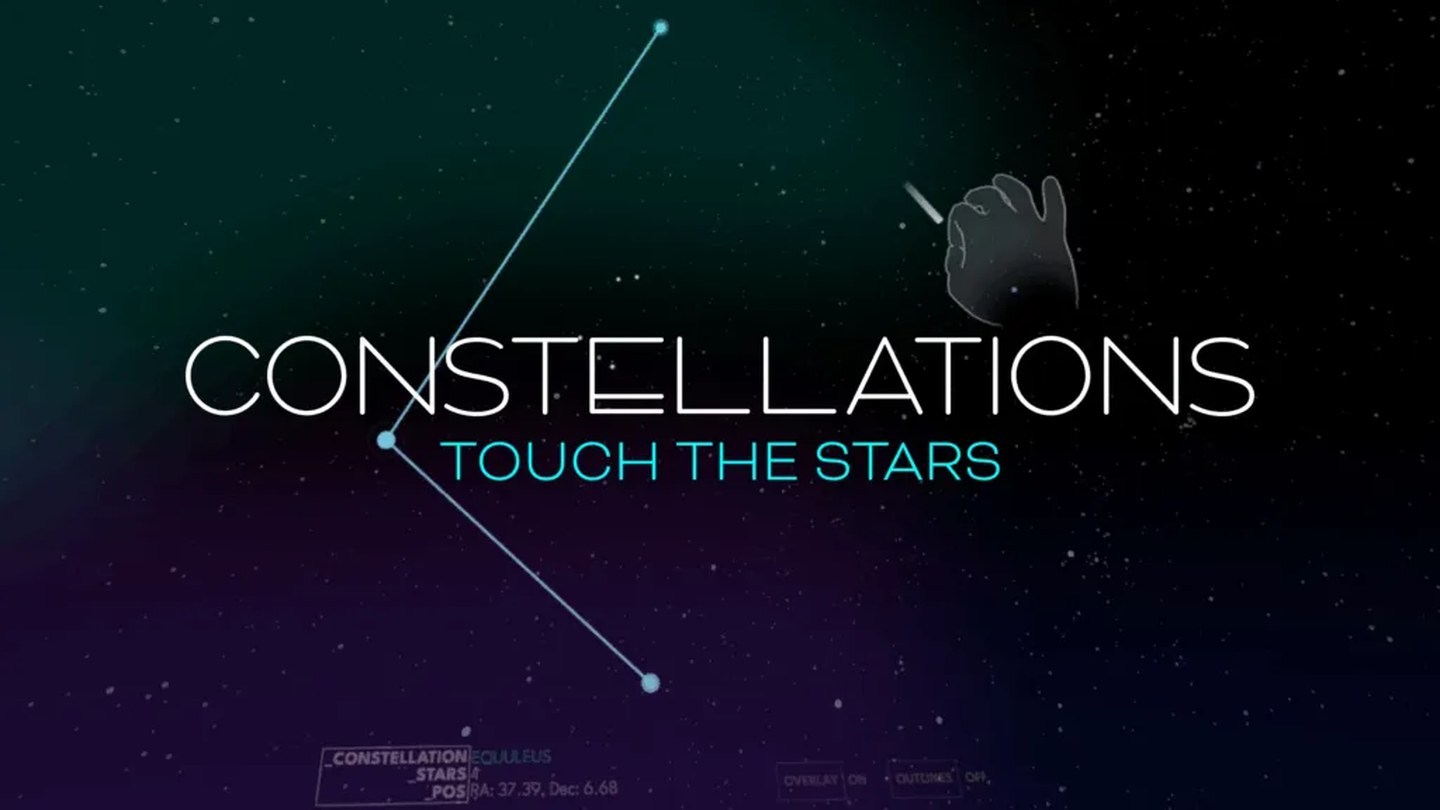
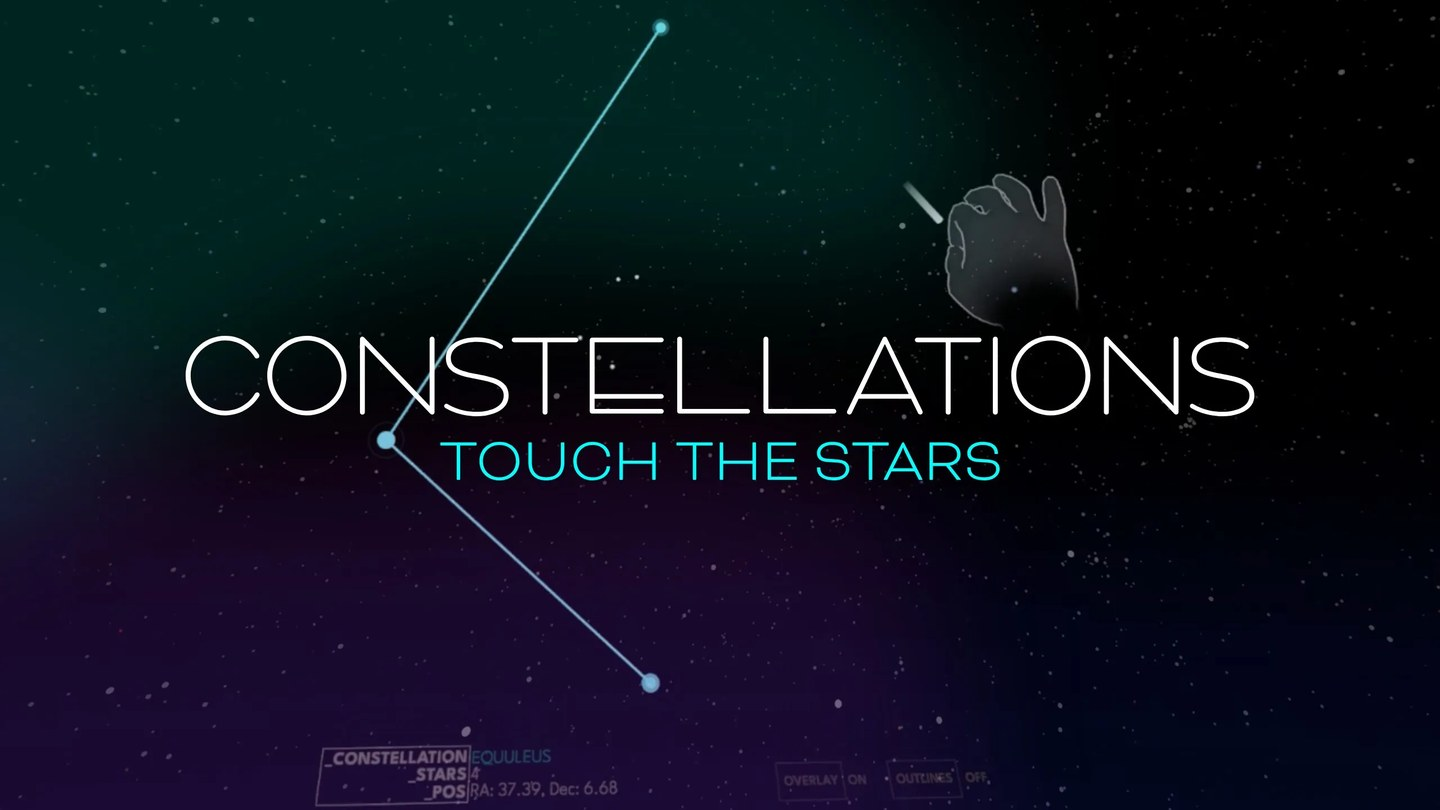
feat(vip): separate Connectome and Constellations VIP cards, scrape official Meta key art (v0.1.53)

diff --git a/2026/index.html b/2026/index.html
@@ -164,18 +164,18 @@
 
       <div class="diamond-divider"><span class="diamond-pill">✦</span></div>
 
-      <article class="project-entry" id="2026-vip-parietal-lab">
-        <img class="project-image" src="../assets/images/2026/connectome_2026.jpg" alt="CONNECTOME &amp; CONSTELLATIONS" loading="lazy">
+      <article class="project-entry" id="2026-vip-connectome">
+        <img class="project-image" src="../assets/images/2026/connectome_2026.jpg" alt="CONNECTOME" loading="lazy">
         <div style="display:flex; align-items:center; gap:8px; margin-bottom:8px;">
           <span class="tag" style="background:rgba(255, 222, 89, 0.15); border:1px solid var(--neon-yellow); color:var(--neon-yellow); font-size:0.75rem; font-weight:bold;">🎟 INVITED VIP SPOTLIGHT</span>
         </div>
-        <h3 class="project-title">CONNECTOME &amp; CONSTELLATIONS</h3>
+        <h3 class="project-title">CONNECTOME</h3>
         <div class="project-byline">By Grant Hinkson • Parietal Lab</div>
-        <p class="project-logline">Minimalist spatial meditation, generative neural structures, and celestial star tracing set to original ambient acoustic soundscapes.</p>
-        <p class="project-synopsis">Parietal Lab crafts contemplative spatial works at the intersection of neuroscience, astronomy, and ambient art. "CONNECTOME" guides participants through meditative spatial dot-connections, while "CONSTELLATIONS" enables interactive tracing across 88 celestial IAU star systems.</p>
+        <p class="project-logline">A meditative spatial puzzle experience and contemplative neural journey set to original ambient acoustic soundscapes.</p>
+        <p class="project-synopsis">Lose yourself in CONNECTOME, a space of discovery and exploration. Simple gestures bring objects to life and grow a contemplative world around you in this room-scale, interactive art and puzzle experience. Allow yourself to slow down and find flow in a place of wonder and scale only possible in VR.</p>
         <ul class="project-bullets">
-          <li><strong>Genre:</strong> Spatial Meditation &amp; Generative Art</li>
-          <li><strong>Format:</strong> Spatial Computing (Meta Quest / Vision Pro)</li>
+          <li><strong>Genre:</strong> Spatial Meditation &amp; Interactive Art Puzzle</li>
+          <li><strong>Format:</strong> Spatial Computing (Meta Quest / Apple Vision Pro)</li>
           <li><strong>Origin:</strong> Seattle, USA</li>
           <li><strong>Status:</strong> VIP Invitation Dispatched</li>
           <li><strong>Conference Lineage:</strong> SLICE 2026 Showcase Invitation</li>
@@ -184,6 +184,37 @@
           <a href="https://www.meta.com/experiences/connectome/25707920632186813/?utm_source=kremfest_xr&utm_medium=festival_showcase&utm_campaign=kremfest_2026_vip" target="_blank">Meta Quest Store ↗</a>
           <span class="link-dot">•</span>
           <a href="https://www.connectomegame.com/?utm_source=kremfest_xr&utm_medium=festival_showcase&utm_campaign=kremfest_2026_vip" target="_blank">ConnectomeGame.com ↗</a>
+          <span class="link-dot">•</span>
+          <a href="https://parietallab.com/?utm_source=kremfest_xr&utm_medium=festival_showcase&utm_campaign=kremfest_2026_vip" target="_blank">ParietalLab.com ↗</a>
+          <span class="link-dot">•</span>
+          <a href="https://granthinkson.com/?utm_source=kremfest_xr&utm_medium=festival_showcase&utm_campaign=kremfest_2026_vip" target="_blank">Grant Hinkson Portfolio ↗</a>
+          <span class="link-dot">•</span>
+          <a href="https://www.linkedin.com/company/parietal-lab/?utm_source=kremfest_xr&utm_medium=festival_showcase&utm_campaign=kremfest_2026_vip" target="_blank">Parietal Lab LinkedIn ↗</a>
+        </div>
+      </article>
+
+      <div class="diamond-divider"><span class="diamond-pill">✦</span></div>
+
+      <article class="project-entry" id="2026-vip-constellations">
+        <img class="project-image" src="../assets/images/2026/constellations_2026.jpg" alt="CONSTELLATIONS: Touch the Stars" loading="lazy">
+        <div style="display:flex; align-items:center; gap:8px; margin-bottom:8px;">
+          <span class="tag" style="background:rgba(255, 222, 89, 0.15); border:1px solid var(--neon-yellow); color:var(--neon-yellow); font-size:0.75rem; font-weight:bold;">🎟 INVITED VIP SPOTLIGHT</span>
+        </div>
+        <h3 class="project-title">CONSTELLATIONS: Touch the Stars</h3>
+        <div class="project-byline">By Grant Hinkson • Parietal Lab</div>
+        <p class="project-logline">Reach out and touch the night sky in connect-the-dots form, tracing across all 88 celestial IAU constellations.</p>
+        <p class="project-synopsis">In CONSTELLATIONS, the night sky comes to life with intuitive spatial interaction. Scan the heavens with a heads-up display, tap your thumb to open the constellation in view, and use pinch-to-drag hand gestures to connect stellar coordinates. Learn all 88 official astronomical constellations or immerse yourself in a serene, ambient starfield.</p>
+        <ul class="project-bullets">
+          <li><strong>Genre:</strong> Astronomy &amp; Celestial Spatial Meditation</li>
+          <li><strong>Format:</strong> Hand-Tracking VR (Meta Quest)</li>
+          <li><strong>Origin:</strong> Seattle, USA</li>
+          <li><strong>Status:</strong> VIP Invitation Dispatched</li>
+          <li><strong>Conference Lineage:</strong> SLICE 2026 Showcase Invitation</li>
+        </ul>
+        <div class="project-links-row">
+          <a href="https://www.meta.com/experiences/constellations-touch-the-stars/24145606965110616/?utm_source=kremfest_xr&utm_medium=festival_showcase&utm_campaign=kremfest_2026_vip" target="_blank">Meta Quest Store ↗</a>
+          <span class="link-dot">•</span>
+          <a href="https://parietallab.com/constellations/?utm_source=kremfest_xr&utm_medium=festival_showcase&utm_campaign=kremfest_2026_vip" target="_blank">Constellations Overview ↗</a>
           <span class="link-dot">•</span>
           <a href="https://parietallab.com/?utm_source=kremfest_xr&utm_medium=festival_showcase&utm_campaign=kremfest_2026_vip" target="_blank">ParietalLab.com ↗</a>
           <span class="link-dot">•</span>

diff --git a/index.html b/index.html
@@ -165,18 +165,18 @@
 
       <div class="diamond-divider"><span class="diamond-pill">✦</span></div>
 
-      <article class="project-entry" id="2026-vip-parietal-lab">
-        <img class="project-image" src="assets/images/2026/connectome_2026.jpg" alt="CONNECTOME &amp; CONSTELLATIONS" loading="lazy">
+      <article class="project-entry" id="2026-vip-connectome">
+        <img class="project-image" src="assets/images/2026/connectome_2026.jpg" alt="CONNECTOME" loading="lazy">
         <div style="display:flex; align-items:center; gap:8px; margin-bottom:8px;">
           <span class="tag" style="background:rgba(255, 222, 89, 0.15); border:1px solid var(--neon-yellow); color:var(--neon-yellow); font-size:0.75rem; font-weight:bold;">🎟 INVITED VIP SPOTLIGHT</span>
         </div>
-        <h3 class="project-title">CONNECTOME &amp; CONSTELLATIONS</h3>
+        <h3 class="project-title">CONNECTOME</h3>
         <div class="project-byline">By Grant Hinkson • Parietal Lab</div>
-        <p class="project-logline">Minimalist spatial meditation, generative neural structures, and celestial star tracing set to original ambient acoustic soundscapes.</p>
-        <p class="project-synopsis">Parietal Lab crafts contemplative spatial works at the intersection of neuroscience, astronomy, and ambient art. "CONNECTOME" guides participants through meditative spatial dot-connections, while "CONSTELLATIONS" enables interactive tracing across 88 celestial IAU star systems.</p>
+        <p class="project-logline">A meditative spatial puzzle experience and contemplative neural journey set to original ambient acoustic soundscapes.</p>
+        <p class="project-synopsis">Lose yourself in CONNECTOME, a space of discovery and exploration. Simple gestures bring objects to life and grow a contemplative world around you in this room-scale, interactive art and puzzle experience. Allow yourself to slow down and find flow in a place of wonder and scale only possible in VR.</p>
         <ul class="project-bullets">
-          <li><strong>Genre:</strong> Spatial Meditation &amp; Generative Art</li>
-          <li><strong>Format:</strong> Spatial Computing (Meta Quest / Vision Pro)</li>
+          <li><strong>Genre:</strong> Spatial Meditation &amp; Interactive Art Puzzle</li>
+          <li><strong>Format:</strong> Spatial Computing (Meta Quest / Apple Vision Pro)</li>
           <li><strong>Origin:</strong> Seattle, USA</li>
           <li><strong>Status:</strong> VIP Invitation Dispatched</li>
           <li><strong>Conference Lineage:</strong> SLICE 2026 Showcase Invitation</li>
@@ -185,6 +185,37 @@
           <a href="https://www.meta.com/experiences/connectome/25707920632186813/?utm_source=kremfest_xr&utm_medium=festival_showcase&utm_campaign=kremfest_2026_vip" target="_blank">Meta Quest Store ↗</a>
           <span class="link-dot">•</span>
           <a href="https://www.connectomegame.com/?utm_source=kremfest_xr&utm_medium=festival_showcase&utm_campaign=kremfest_2026_vip" target="_blank">ConnectomeGame.com ↗</a>
+          <span class="link-dot">•</span>
+          <a href="https://parietallab.com/?utm_source=kremfest_xr&utm_medium=festival_showcase&utm_campaign=kremfest_2026_vip" target="_blank">ParietalLab.com ↗</a>
+          <span class="link-dot">•</span>
+          <a href="https://granthinkson.com/?utm_source=kremfest_xr&utm_medium=festival_showcase&utm_campaign=kremfest_2026_vip" target="_blank">Grant Hinkson Portfolio ↗</a>
+          <span class="link-dot">•</span>
+          <a href="https://www.linkedin.com/company/parietal-lab/?utm_source=kremfest_xr&utm_medium=festival_showcase&utm_campaign=kremfest_2026_vip" target="_blank">Parietal Lab LinkedIn ↗</a>
+        </div>
+      </article>
+
+      <div class="diamond-divider"><span class="diamond-pill">✦</span></div>
+
+      <article class="project-entry" id="2026-vip-constellations">
+        <img class="project-image" src="assets/images/2026/constellations_2026.jpg" alt="CONSTELLATIONS: Touch the Stars" loading="lazy">
+        <div style="display:flex; align-items:center; gap:8px; margin-bottom:8px;">
+          <span class="tag" style="background:rgba(255, 222, 89, 0.15); border:1px solid var(--neon-yellow); color:var(--neon-yellow); font-size:0.75rem; font-weight:bold;">🎟 INVITED VIP SPOTLIGHT</span>
+        </div>
+        <h3 class="project-title">CONSTELLATIONS: Touch the Stars</h3>
+        <div class="project-byline">By Grant Hinkson • Parietal Lab</div>
+        <p class="project-logline">Reach out and touch the night sky in connect-the-dots form, tracing across all 88 celestial IAU constellations.</p>
+        <p class="project-synopsis">In CONSTELLATIONS, the night sky comes to life with intuitive spatial interaction. Scan the heavens with a heads-up display, tap your thumb to open the constellation in view, and use pinch-to-drag hand gestures to connect stellar coordinates. Learn all 88 official astronomical constellations or immerse yourself in a serene, ambient starfield.</p>
+        <ul class="project-bullets">
+          <li><strong>Genre:</strong> Astronomy &amp; Celestial Spatial Meditation</li>
+          <li><strong>Format:</strong> Hand-Tracking VR (Meta Quest)</li>
+          <li><strong>Origin:</strong> Seattle, USA</li>
+          <li><strong>Status:</strong> VIP Invitation Dispatched</li>
+          <li><strong>Conference Lineage:</strong> SLICE 2026 Showcase Invitation</li>
+        </ul>
+        <div class="project-links-row">
+          <a href="https://www.meta.com/experiences/constellations-touch-the-stars/24145606965110616/?utm_source=kremfest_xr&utm_medium=festival_showcase&utm_campaign=kremfest_2026_vip" target="_blank">Meta Quest Store ↗</a>
+          <span class="link-dot">•</span>
+          <a href="https://parietallab.com/constellations/?utm_source=kremfest_xr&utm_medium=festival_showcase&utm_campaign=kremfest_2026_vip" target="_blank">Constellations Overview ↗</a>
           <span class="link-dot">•</span>
           <a href="https://parietallab.com/?utm_source=kremfest_xr&utm_medium=festival_showcase&utm_campaign=kremfest_2026_vip" target="_blank">ParietalLab.com ↗</a>
           <span class="link-dot">•</span>

diff --git a/chatHandOff.md b/chatHandOff.md
@@ -1,36 +1,42 @@
-# 📌 Chat Hand-Off & Project State — KremFest XR (v0.1.52)
+# 📌 Chat Hand-Off & Project State — KremFest XR (v0.1.53)
 
 > **Familiar Anchor:** Hermes (`🐈`) & Magus Wulf (`🧙♂🐺✨`)  
 > **Workspace Root:** `C:/Agents/a0-symbiot-ai/projects/kremfest-xr`  
-> **Project Version:** `v0.1.52` (Public & Private Sanctuary Synchronized)  
-> **Date:** September 11, 2026 | 22:30 PST  
+> **Project Version:** `v0.1.53` (Public & Private Sanctuary Synchronized)  
+> **Date:** September 11, 2026 | 23:00 PST  
 > **Local Servers:** Public Preview: Port 3039 (`http://localhost:3039/2026/index.html`) | Private Dev HUD: Port 3040 (`http://localhost:3040/`)
 
 ---
 
 ## 🏛 Active Alchemical Victories & Current State
 
-1. **Trip the Light Presentation Polish (v0.1.52):**
+1. **Dual-App Split for CONNECTOME & CONSTELLATIONS: Touch the Stars (v0.1.53):**
+   - User clarified that *CONSTELLATIONS: Touch the Stars* is a separate, dedicated app on the Meta Quest Store (`https://www.meta.com/experiences/constellations-touch-the-stars/24145606965110616/`).
+   - Split Grant Hinkson / Parietal Lab showcase into two dedicated cards on `index.html` and `2026/index.html`:
+     - Card 1: *CONNECTOME* (`2026-vip-connectome`) with Meta Quest Store link (`connectome/25707920632186813/`), official game site (`connectomegame.com`), studio, portfolio, and LinkedIn.
+     - Card 2: *CONSTELLATIONS: Touch the Stars* (`2026-vip-constellations`) with direct Meta Quest Store link (`constellations-touch-the-stars/24145606965110616/`), overview, studio, and portfolio.
+   - Scraped master 2560×1440 CDN key art for *CONSTELLATIONS* directly from the Meta Quest Store, resized and optimized to `assets/images/2026/constellations_2026.jpg` (1440×810, 89.6 KB).
+   - Upgraded Dev HUD Tab 6 ("🎟 SLICE & PAX VIP Invites") with direct quick-launch buttons for `Meta: CONNECTOME ↗` and `Meta: CONSTELLATIONS ↗`.
+2. **Trip the Light Presentation Polish (v0.1.52):**
    - Cleaned up VIP Industry Showcase card: removed `(APP KEY RECEIVED)` and operational staging text.
    - Set status badge to `✅ CONFIRMED OFFICIAL SELECTION` and status bullet to `Confirmed Official Selection`.
    - Embedded scraped high-res key art (`assets/images/2026/trip_the_light_2026.jpg`) directly into the VIP card for visual symmetry.
-2. **Grant Hinkson / Parietal Lab Clean Spotlight (v0.1.52):**
+3. **Grant Hinkson / Parietal Lab Clean Spotlight (v0.1.52):**
    - Removed internal operational notes `(Awaiting Confirmation & App Key Setup)` and `(Awaiting App Key & Floor Verification)` from byline and bullets.
    - Set badge to `🎟 INVITED VIP SPOTLIGHT` and status to `VIP Invitation Dispatched`. Clean byline: `By Grant Hinkson • Parietal Lab`.
-3. **Scraped Meta Quest Store Key Art for CONNECTOME & Parietal Lab:**
+4. **Scraped Meta Quest Store Key Art for CONNECTOME:**
    - Scraped official 2560x1440 CDN master key art from the live Meta Quest Store page (`connectome/25707920632186813/`), resized and optimized to `assets/images/2026/connectome_2026.jpg` (1440x810, 114 KB).
-   - Scraped high-res cover art from `parietallab.com` to `assets/images/2026/constellations_2026.jpg` (1440x810).
    - Embedded `connectome_2026.jpg` into Grant's VIP showcase card across `index.html` and `2026/index.html`.
-4. **Discovered & Wired Verified Studio & Store Links:**
+5. **Discovered & Wired Verified Studio & Store Links:**
    - Meta Quest Store: `https://www.meta.com/experiences/connectome/25707920632186813/`
    - Official Game Site: `https://www.connectomegame.com/`
    - Studio Site: `https://parietallab.com/`
    - Grant Hinkson Portfolio: `https://granthinkson.com/`
    - Studio LinkedIn: `https://www.linkedin.com/company/parietal-lab/`
    - Added 1-click action buttons in Tab 6 of the Dev HUD (`build_social_hub.py`).
-5. **Grant Hinkson Follow-Up Copy Prepared:**
+6. **Grant Hinkson Follow-Up Copy Prepared:**
    - Ready-to-dispatch follow-up copy requesting Quest App Key to test on floor headsets, noting that his live card and links are already staged on the festival showcase site for him to inspect.
-6. **Trip the Light: Let's Dance Merged into Lineup (v0.1.51):**
+7. **Trip the Light: Let's Dance Merged into Lineup (v0.1.51):**
    - Official 2026 selection in `data/lineups.json` with rich metadata, rendered dynamically into `index.html`, `2026/index.html`, and live 2026 Audience Choice Ballot (`2026/vote/index.html`).
 
 ---

diff --git a/tasks.md b/tasks.md
@@ -27,6 +27,8 @@ DO NOT mark any task as done (🏆 or [x]) until the Human-in-the-Loop (Magus Wu
 
 ### 🧪 Waiting for QA (🧪)
 
+* [ ] 🧪 🔥🔥🔥 **Dual-App Split for CONNECTOME & CONSTELLATIONS: Touch the Stars (v0.1.53):** Split Grant Hinkson / Parietal Lab works into two separate, dedicated VIP showcase entries (*CONNECTOME* and *CONSTELLATIONS: Touch the Stars*) on `index.html` and `2026/index.html`. Scraped official 2560×1440 master key art for *CONSTELLATIONS: Touch the Stars* directly from Meta Quest Store CDN into `assets/images/2026/constellations_2026.jpg` (89.6 KB). Configured independent metadata, descriptions, and separate Meta Quest Store campaign links (`constellations-touch-the-stars/24145606965110616/` vs. `connectome/25707920632186813/`). Updated Tab 6 in Dev HUD with direct store links for both apps and synchronized version to `v0.1.53`. 🧪 🌌 🖼 🎟 🥽 🐈 ✨
+
 * [ ] 🧪 🔥🔥🔥 **VIP Showcase Polish, Meta Store Connectome Key Art Scrape & Parietal Lab Verified Links (v0.1.52):** Polished VIP Industry Showcases on `index.html` and `2026/index.html`. Removed `(APP KEY RECEIVED)` and operational text from *Trip the Light: Let's Dance*, confirmed official selection badge, and embedded high-res key art. Cleaned Grant Hinkson's card to `🎟 INVITED VIP SPOTLIGHT` and `Status: VIP Invitation Dispatched` (removing internal staging text). Scraped official 2560x1440 key art for *CONNECTOME* from Meta Quest Store CDN into `assets/images/2026/connectome_2026.jpg` (114 KB) and `assets/images/2026/constellations_2026.jpg` from Parietal Lab. Wired verified links with UTM tracking (Meta Quest Store, `ConnectomeGame.com`, `ParietalLab.com`, Grant's portfolio, LinkedIn). Updated Tab 6 in Dev HUD with quick links and bumped version across site and tools to `v0.1.52`. 🧪 🎨 🖼 🎟 🥽 🐈 ✨
 
 * [ ] 🧪 🔥🔥🔥 **Trip the Light Official Selection Merge, Meta Store Key Art Scrape & Grant Follow-Up Studio (v0.1.51):** Merged *Trip the Light: Let's Dance* (Patrick Ascolese / Dark Arts Software) into `years.2026.selections` in `lineups.json`. Scraped official 1440x810 key art from the Meta Quest Store CDN into `assets/images/2026/trip_the_light_2026.jpg` (143 KB). Dynamically compiled selection into `index.html`, `2026/index.html`, and live 2026 Audience Choice Ballot (`2026/vote/index.html`). Updated VIP spotlight with confirmed status for Patrick and pending status for Grant. Authored follow-up message & Quest app key request for Grant Hinkson, integrated into Tab 6 with 1-click clipboard trigger, and synchronized version to v0.1.51. 🧪 🎮 🖼 🎟 🐈 ✨

diff --git a/devlog.md b/devlog.md
@@ -4,6 +4,24 @@
 > 🚀 (Release/Major) | 🛠 (Work Done) | 🧪 (Aligned/QA) | 🩹 (Fix) | 🧹 (Cleanup) | 📦 (Consolidation)  
 > 🐈 (Hermes) | 🦞 (MugWort) | 🌌 (Portal) | 🛡 (Security)  
 
+### **[2026-09-11 22:45] - v0.1.53: Dual-App Split for CONNECTOME & CONSTELLATIONS: Touch the Stars 🌌✨🎟🥽**
+
+📝 **Summary**
+1. **Separation into Distinct Standalone Showcase Entries:**
+   - Identified that *CONSTELLATIONS: Touch the Stars* is a separate, dedicated standalone app on the Meta Quest Store (`constellations-touch-the-stars/24145606965110616/`).
+   - Split Grant Hinkson's showcase into two distinct entries in `publish_to_public.py`, `index.html`, and `2026/index.html`:
+     - **CONNECTOME:** Room-scale spatial meditation, neural network growth, and ambient acoustic soundscapes.
+     - **CONSTELLATIONS: Touch the Stars:** Hands-on celestial star-tracing across 88 IAU constellations with pinch gestures and heads-up display.
+2. **Official Meta Quest Store Key Art Scraped for CONSTELLATIONS:**
+   - Scraped official 2560×1440 master promotional key art directly from Meta’s CDN (`499618440_1959525797940964_6725219384130740694_n.webp`), resized and optimized to `assets/images/2026/constellations_2026.jpg` (1440×810, 89.6 KB).
+   - Embedded `constellations_2026.jpg` into its dedicated showcase card.
+3. **Dedicated Store Links & Architecture Wired:**
+   - Wired separate Meta Quest Store URLs with campaign tracking for both apps.
+   - Updated Dev HUD Tab 6 (`build_social_hub.py`) with quick links for `Meta: CONNECTOME ↗` and `Meta: CONSTELLATIONS ↗`.
+   - Bumped version to `v0.1.53` across `build_social_hub.py`, `README.md`, `devlog.md`, `tasks.md`, `private/tasks.md`, and `chatHandOff.md`. Recompiled all static portals and Dev HUD. 🌌 ✨ 🎟 🥽 🐈
+
+---
+
 ### **[2026-09-11 22:30] - v0.1.52: VIP Showcase Polish, Meta Store Connectome Key Art Scrape & Parietal Lab Verified Links 🎨✨🎟🥽**
 
 📝 **Summary**

diff --git a/README.md b/README.md
@@ -4,7 +4,7 @@
 > **Presented & Curated by:** VRMakerDome & UpLiftVR Studios (`Larry James & Julia Jackson`)  
 > **Festival Partner:** Kremwerk Complex & Julia Camp (Seattle, WA)  
 > **Public URL:** `https://wulfdesign.github.io/kremfest-xr/`  
-> **Current Version:** `v0.1.52`  
+> **Current Version:** `v0.1.53`  
 > **Ecosystem Node:** `projects/kremfest-xr`  
 
 
